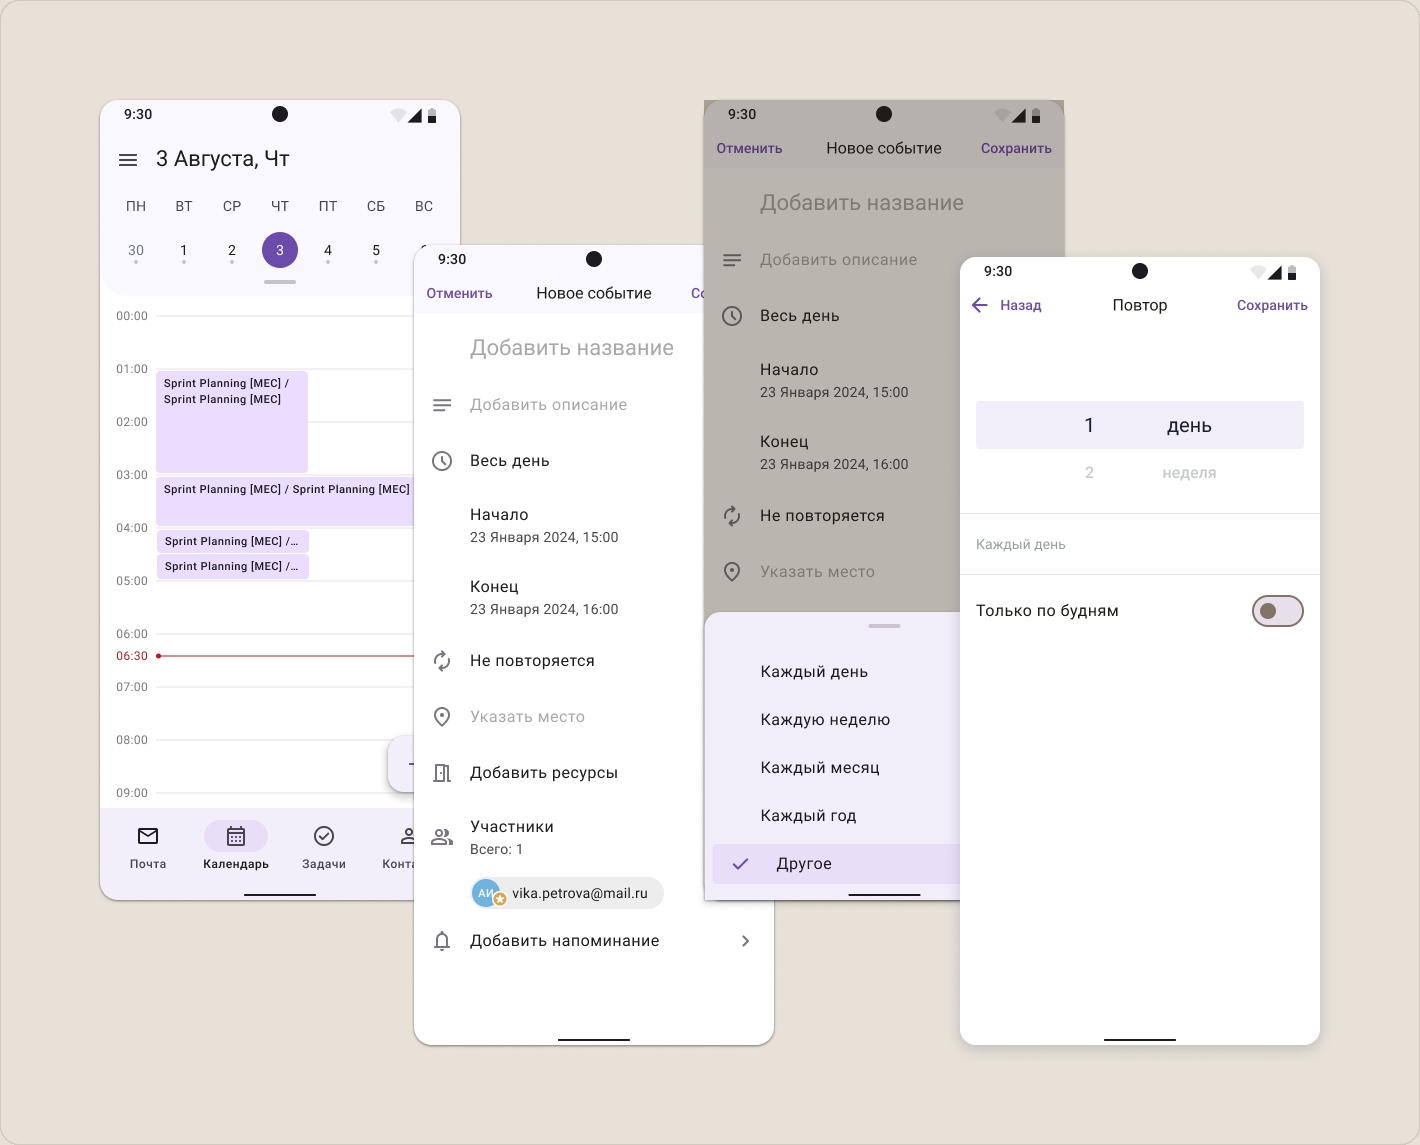
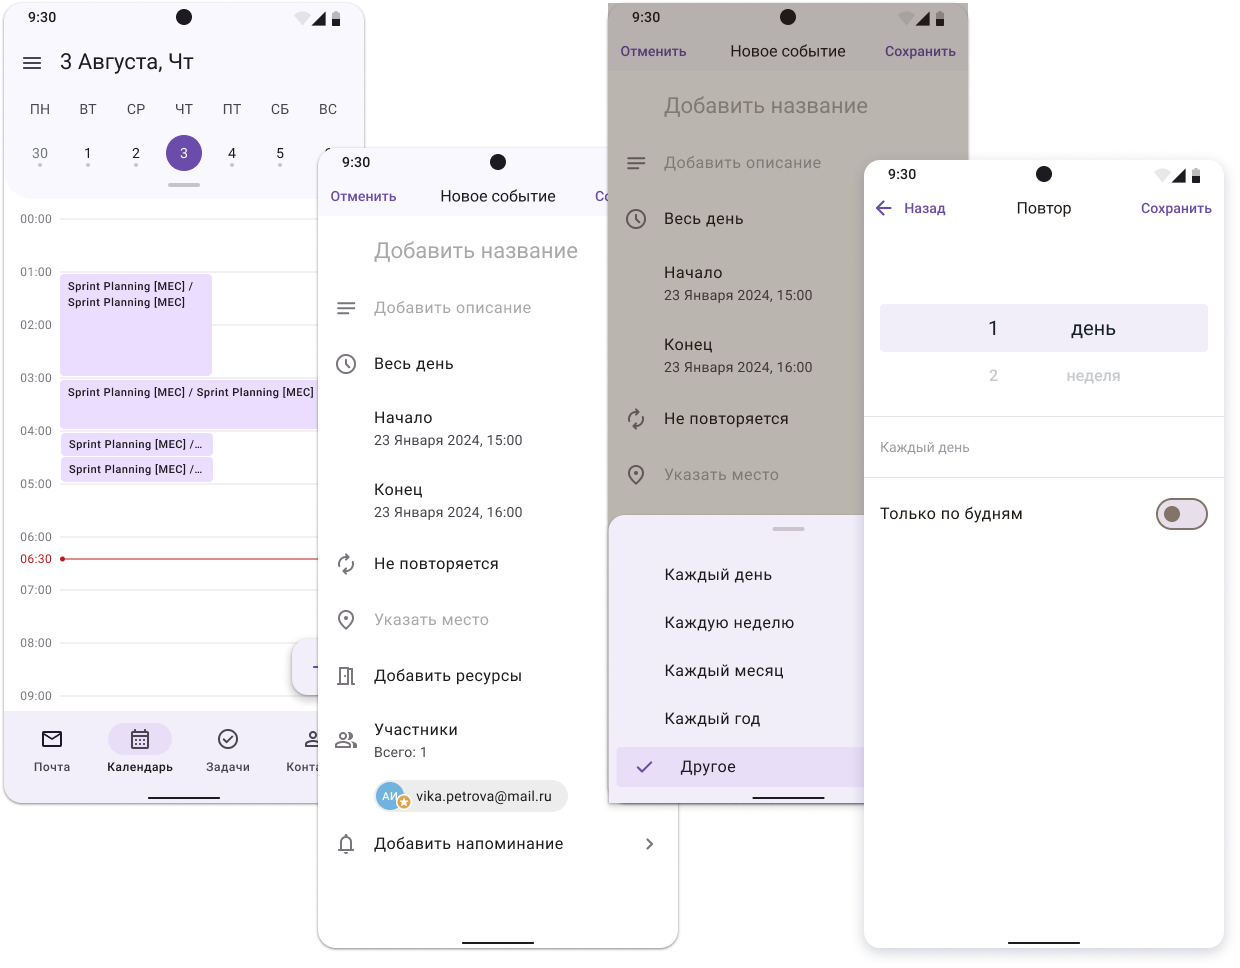
Fix preview-recurring.png border+padding

diff --git a/index.html b/index.html
@@ -588,6 +588,7 @@
 
   /* mail card — natural aspect, larger radius */
   .case-prev.mail-prev img { aspect-ratio: auto; border-radius: 8px; }
+  .case-prev.transparent-prev img { padding: 16px; }
 
   /* interactive prototype card */
   .case-row.proto { cursor: pointer; }
@@ -833,7 +834,7 @@
           <span class="go">Смотреть кейс →</span>
         </div>
       </div>
-      <div class="case-prev">
+      <div class="case-prev transparent-prev">
         <img src="images/preview-recurring.png?v=3" alt="Повторяющиеся события">
       </div>
     </a>